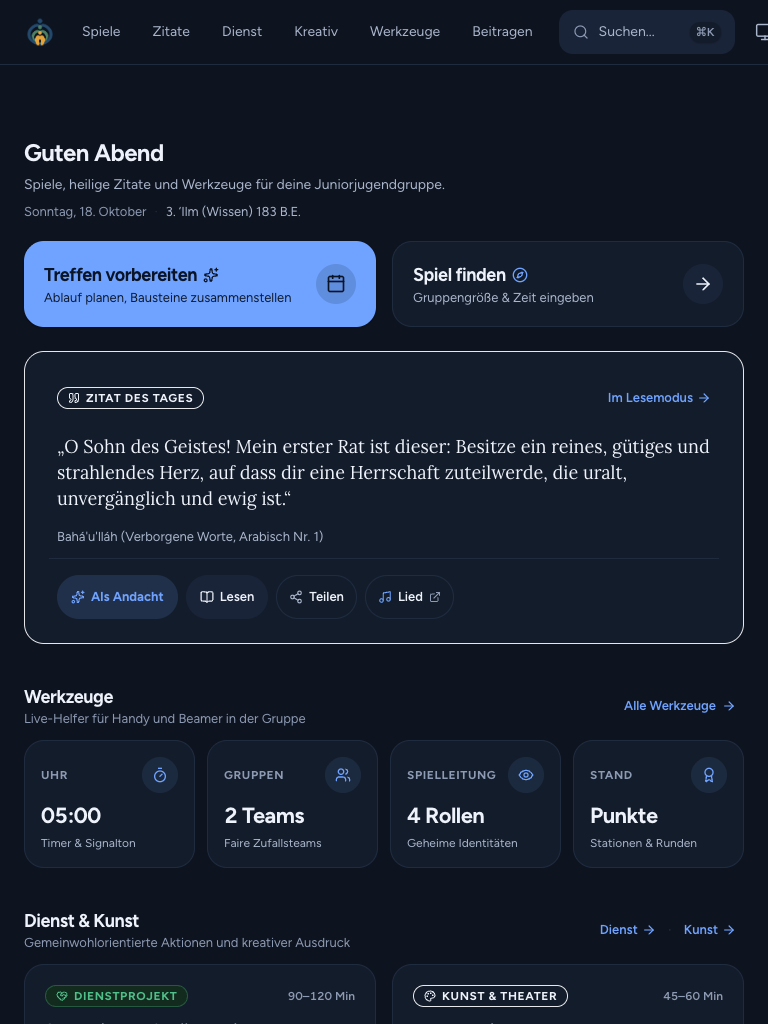
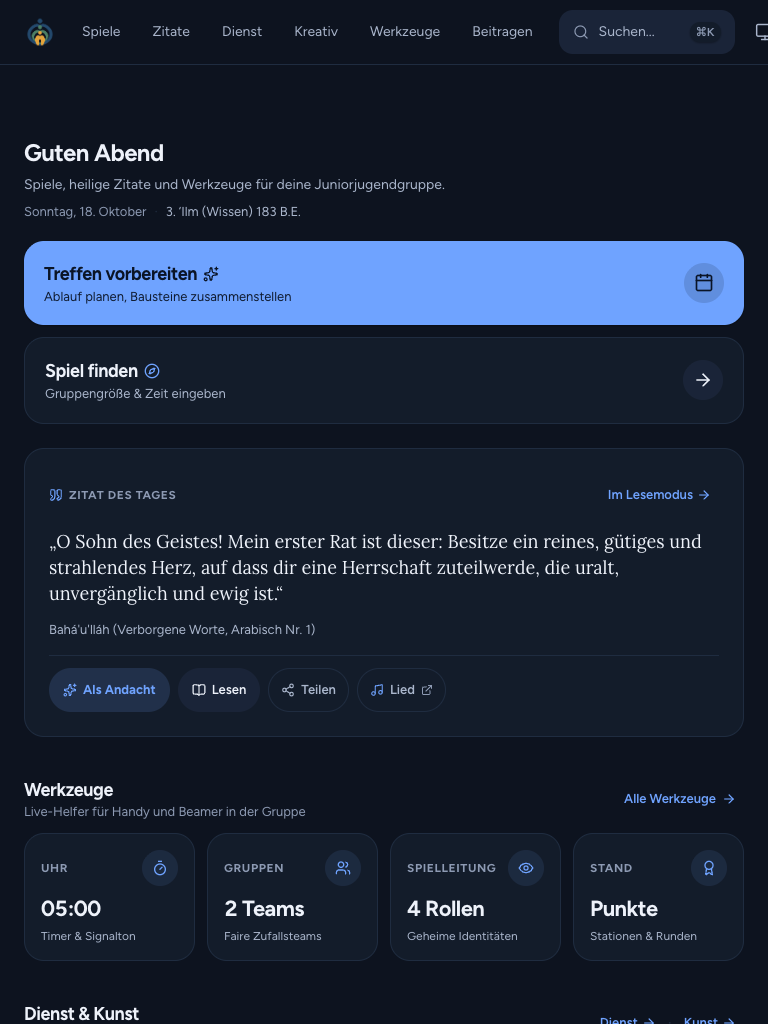
fix(home): stack CTAs vertically, simplify quote card without white outline, normalize service/arts tags

diff --git a/src/components/HomeView.tsx b/src/components/HomeView.tsx
@@ -339,8 +339,8 @@ export const HomeView: React.FC<HomeViewProps> = ({ language, favorites }) => {
             </p>
           </header>
 
-          {/* Die zwei großen CTA-Kacheln ("Treffen vorbereiten" & "Spiel finden") */}
-          <nav aria-label={L('Haupteinstiege', 'Main navigation')} className="grid grid-cols-1 sm:grid-cols-2 gap-3 sm:gap-4 pt-1">
+          {/* Die zwei großen CTA-Kacheln übereinander */}
+          <nav aria-label={L('Haupteinstiege', 'Main navigation')} className="flex flex-col gap-3 pt-1">
             {/* Hauptaktion: Treffen vorbereiten */}
             <Link
               to="/treffen"
@@ -366,7 +366,7 @@ export const HomeView: React.FC<HomeViewProps> = ({ language, favorites }) => {
             <button
               type="button"
               onClick={() => setShowCompactFinder(!showCompactFinder)}
-              className="rounded-card bg-surface border border-border p-4 sm:p-5 shadow-xs hover:border-accent hover:shadow-1 transition-all duration-150 flex items-center justify-between group cursor-pointer text-left focus-visible:ring-2 focus-visible:ring-accent"
+              className="rounded-card bg-surface border border-line p-4 sm:p-5 shadow-xs hover:border-accent hover:shadow-1 transition-all duration-150 flex items-center justify-between group cursor-pointer text-left focus-visible:ring-2 focus-visible:ring-accent"
             >
               <div className="space-y-0.5 min-w-0 pr-2">
                 <div className="flex items-center gap-1.5 font-bold text-base sm:text-lg text-text group-hover:text-accent tracking-tight transition-colors">
@@ -442,20 +442,17 @@ export const HomeView: React.FC<HomeViewProps> = ({ language, favorites }) => {
           )}
         </div>
 
-        {/* Rechte Spalte: Zitat des Tages (lg:col-span-5) */}
+        {/* Rechte Spalte: Zitat des Tages (ruhig, dezent, ohne auffälligen Rahmen) */}
         {quote && (
-          <div className="lg:col-span-5 flex flex-col">
+          <div className="lg:col-span-5 flex flex-col justify-start">
             <section
               aria-label={L('Zitat des Tages', 'Quote of the day')}
-              className="flex-1 flex flex-col justify-between p-5 sm:p-6 rounded-card bg-surface border border-devotion-border/40 shadow-xs relative overflow-hidden"
+              className="p-5 sm:p-6 rounded-card bg-surface border border-line shadow-xs flex flex-col justify-between space-y-4"
             >
-              {/* Dezent gestaltete Akzentlinie in warmer Farbe */}
-              <div className="absolute top-0 left-0 bottom-0 w-1 bg-amber/60" aria-hidden="true" />
-
-              <div className="space-y-3.5 pl-2">
+              <div className="space-y-3">
                 <div className="flex items-center justify-between">
-                  <span className="inline-flex items-center gap-1.5 px-2.5 py-0.5 rounded-full text-2xs font-bold uppercase tracking-wider bg-amber-subtle text-amber-text border border-amber-border/40">
-                    <QuoteIcon className="w-3 h-3 text-amber" />
+                  <span className="text-2xs font-bold uppercase tracking-wider text-text-tertiary flex items-center gap-1.5">
+                    <QuoteIcon className="w-3.5 h-3.5 text-accent" />
                     <span>{L('Zitat des Tages', 'Quote of the day')}</span>
                   </span>
                   <Link
@@ -481,14 +478,13 @@ export const HomeView: React.FC<HomeViewProps> = ({ language, favorites }) => {
                   </button>
                 )}
 
-                <p className="text-xs font-medium text-text-secondary pt-0.5">
+                <p className="text-xs text-text-secondary pt-0.5">
                   {quote.source[language]}
                 </p>
               </div>
 
-              {/* Aktionen als gleichmäßige Button-Gruppe */}
               {/* Aktionen als gleichmäßige Button-Gruppe (Mobil 2x2, Desktop Flex-Reihe) */}
-              <div className="pt-4 mt-3 border-t border-border grid grid-cols-2 sm:flex sm:flex-wrap sm:items-center gap-2 pl-2">
+              <div className="pt-3 border-t border-line grid grid-cols-2 sm:flex sm:flex-wrap sm:items-center gap-2">
                 <button
                   type="button"
                   onClick={handleUseQuoteAsDevotional}
@@ -499,7 +495,7 @@ export const HomeView: React.FC<HomeViewProps> = ({ language, favorites }) => {
                 </button>
                 <Link
                   to={`/quotes/${quote.id}`}
-                  className="px-3.5 py-2.5 rounded-full bg-surface-2 hover:bg-surface-2/80 text-text text-xs font-semibold transition-colors cursor-pointer min-h-[44px] flex items-center justify-center gap-1.5 focus-visible:ring-2 focus-visible:ring-accent"
+                  className="px-3.5 py-2.5 rounded-full bg-surface-2 hover:bg-surface-3 text-text text-xs font-semibold transition-colors cursor-pointer min-h-[44px] flex items-center justify-center gap-1.5 focus-visible:ring-2 focus-visible:ring-accent"
                 >
                   <BookOpen className="w-3.5 h-3.5 shrink-0" />
                   <span>{L('Lesen', 'Read')}</span>
@@ -507,7 +503,7 @@ export const HomeView: React.FC<HomeViewProps> = ({ language, favorites }) => {
                 <button
                   type="button"
                   onClick={handleShareQuote}
-                  className="px-3 py-2.5 rounded-full border border-border bg-surface hover:bg-surface-2 text-text text-xs font-semibold transition-colors min-h-[44px] flex items-center justify-center gap-1.5 cursor-pointer focus-visible:ring-2 focus-visible:ring-accent"
+                  className="px-3 py-2.5 rounded-full border border-line hover:bg-surface-2 text-text-secondary hover:text-text text-xs font-semibold transition-colors min-h-[44px] flex items-center justify-center gap-1.5 cursor-pointer focus-visible:ring-2 focus-visible:ring-accent"
                   title={t.quoteShare}
                   aria-label={t.quoteShare}
                 >
@@ -519,7 +515,7 @@ export const HomeView: React.FC<HomeViewProps> = ({ language, favorites }) => {
                     href={quoteSong.url}
                     target="_blank"
                     rel="noopener noreferrer"
-                    className="px-3 py-2.5 rounded-full border border-border bg-surface hover:bg-surface-2 text-text text-xs font-semibold transition-colors min-h-[44px] flex items-center justify-center gap-1.5 focus-visible:ring-2 focus-visible:ring-accent"
+                    className="px-3 py-2.5 rounded-full border border-line hover:bg-surface-2 text-text-secondary hover:text-text text-xs font-semibold transition-colors min-h-[44px] flex items-center justify-center gap-1.5 focus-visible:ring-2 focus-visible:ring-accent"
                     title={language === 'de' ? `Lied „${quoteSong.title}“ auf bahaisongs.com anhören` : `Listen to song "${quoteSong.title}" on bahaisongs.com`}
                     aria-label={t.quoteSongAriaLabel}
                   >
@@ -668,16 +664,16 @@ export const HomeView: React.FC<HomeViewProps> = ({ language, favorites }) => {
         </div>
 
         <div className="grid grid-cols-1 sm:grid-cols-2 gap-3 sm:gap-4">
-          {/* Service Project Card mit visueller Kennung */}
+          {/* Service Project Card */}
           {sampleService && (
             <Link
               to={`/service/${sampleService.id}`}
-              className="flex flex-col justify-between p-4 sm:p-5 rounded-card bg-surface border border-border hover:border-accent hover:shadow-xs transition-all duration-150 group focus-visible:ring-2 focus-visible:ring-accent"
+              className="flex flex-col justify-between p-4 sm:p-5 rounded-card bg-surface border border-line hover:border-accent hover:shadow-xs transition-all duration-150 group focus-visible:ring-2 focus-visible:ring-accent"
             >
               <div className="space-y-2.5">
                 <div className="flex items-center justify-between gap-2">
-                  <span className="px-2.5 py-0.5 rounded-full text-2xs font-extrabold uppercase tracking-wider bg-success-subtle text-success border border-success/30 flex items-center gap-1.5 shrink-0">
-                    <HeartHandshake className="w-3 h-3 text-success" />
+                  <span className="px-2.5 py-0.5 rounded-full text-2xs font-bold uppercase tracking-wider bg-surface-2 text-text-secondary flex items-center gap-1.5 shrink-0">
+                    <HeartHandshake className="w-3.5 h-3.5 text-accent" />
                     <span>{L('Dienstprojekt', 'Service Project')}</span>
                   </span>
                   <span className="text-2xs text-text-tertiary font-semibold tabular-nums shrink-0">
@@ -691,7 +687,7 @@ export const HomeView: React.FC<HomeViewProps> = ({ language, favorites }) => {
                   {sampleService.objective[language]}
                 </p>
               </div>
-              <div className="pt-3 mt-3 border-t border-border flex items-center justify-between text-xs text-text-tertiary">
+              <div className="pt-3 mt-3 border-t border-line flex items-center justify-between text-xs text-text-tertiary">
                 <span>{sampleService.groupSize.min}–{sampleService.groupSize.max} {L('Personen', 'people')}</span>
                 <span className="font-semibold text-accent group-hover:translate-x-0.5 transition-transform flex items-center gap-0.5">
                   {L('Ansehen', 'View')} <ChevronRight className="w-3 h-3" />
@@ -700,16 +696,16 @@ export const HomeView: React.FC<HomeViewProps> = ({ language, favorites }) => {
             </Link>
           )}
 
-          {/* Arts Prompt Card mit visueller Kennung */}
+          {/* Arts Prompt Card */}
           {sampleArt && (
             <Link
               to={`/arts/${sampleArt.id}`}
-              className="flex flex-col justify-between p-4 sm:p-5 rounded-card bg-surface border border-border hover:border-accent hover:shadow-xs transition-all duration-150 group focus-visible:ring-2 focus-visible:ring-accent"
+              className="flex flex-col justify-between p-4 sm:p-5 rounded-card bg-surface border border-line hover:border-accent hover:shadow-xs transition-all duration-150 group focus-visible:ring-2 focus-visible:ring-accent"
             >
               <div className="space-y-2.5">
                 <div className="flex items-center justify-between gap-2">
-                  <span className="px-2.5 py-0.5 rounded-full text-2xs font-extrabold uppercase tracking-wider bg-amber-subtle text-amber-text border border-amber-border/40 flex items-center gap-1.5 shrink-0">
-                    <Palette className="w-3 h-3 text-amber" />
+                  <span className="px-2.5 py-0.5 rounded-full text-2xs font-bold uppercase tracking-wider bg-surface-2 text-text-secondary flex items-center gap-1.5 shrink-0">
+                    <Palette className="w-3.5 h-3.5 text-accent" />
                     <span>{L('Kunst & Theater', 'Arts & Drama')}</span>
                   </span>
                   <span className="text-2xs text-text-tertiary font-semibold tabular-nums shrink-0">
@@ -723,7 +719,7 @@ export const HomeView: React.FC<HomeViewProps> = ({ language, favorites }) => {
                   {sampleArt.description[language]}
                 </p>
               </div>
-              <div className="pt-3 mt-3 border-t border-border flex items-center justify-between text-xs text-text-tertiary">
+              <div className="pt-3 mt-3 border-t border-line flex items-center justify-between text-xs text-text-tertiary">
                 <span>{sampleArt.groupSize.min}–{sampleArt.groupSize.max} {L('Personen', 'people')}</span>
                 <span className="font-semibold text-accent group-hover:translate-x-0.5 transition-transform flex items-center gap-0.5">
                   {L('Ansehen', 'View')} <ChevronRight className="w-3 h-3" />
